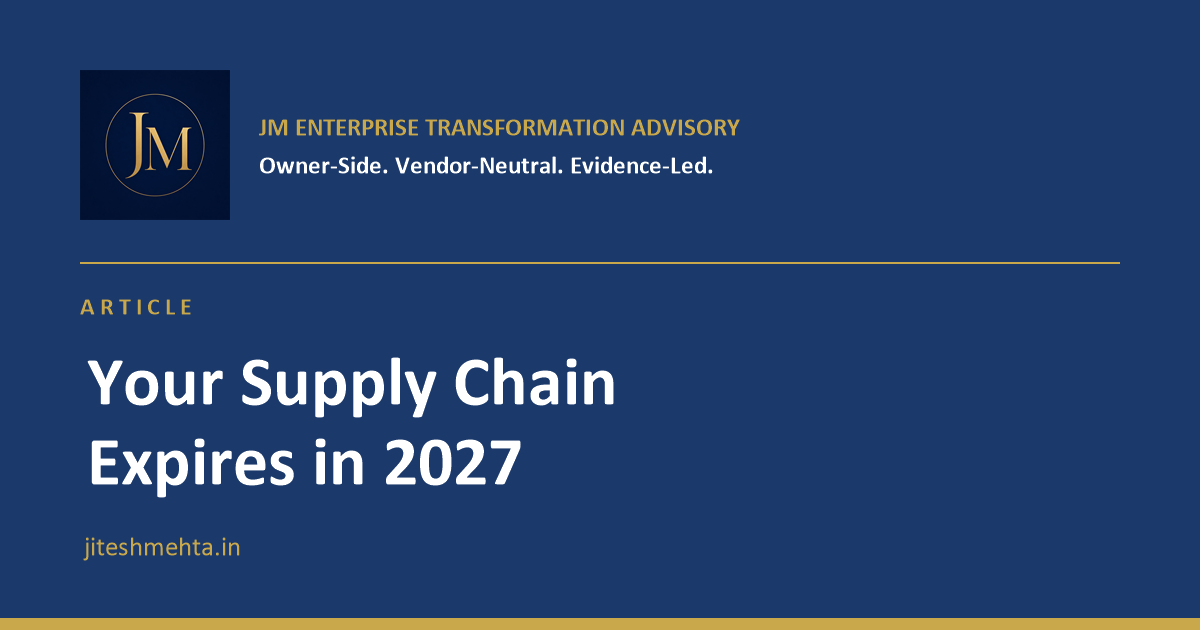
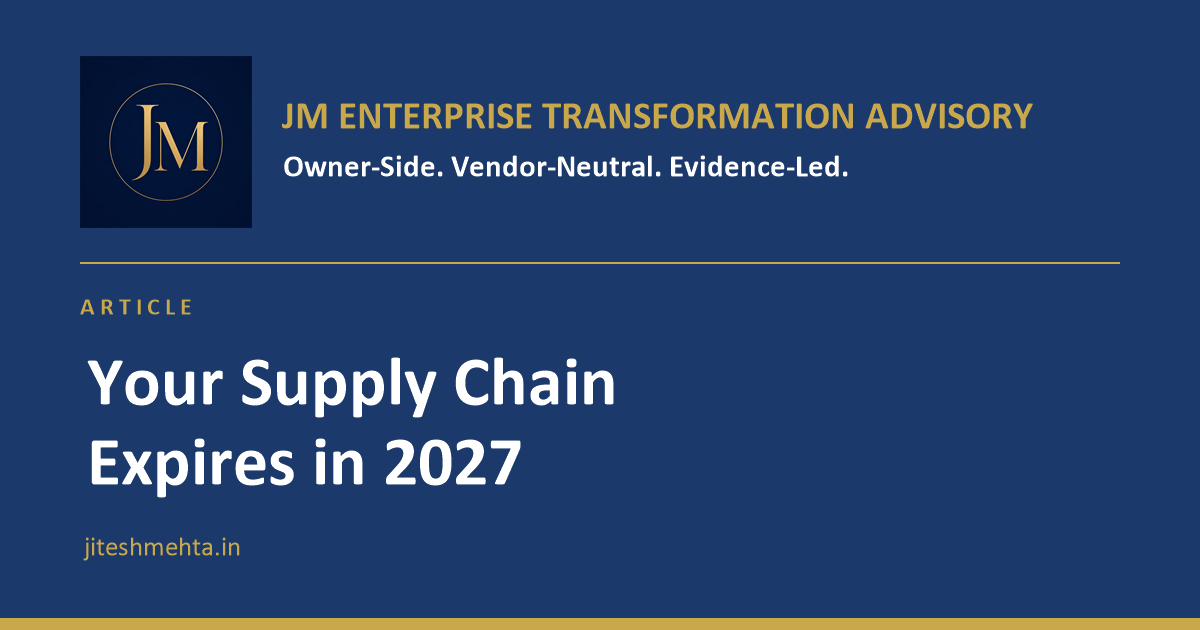
Add author and publish date metadata, enlarge the share image heading
Adds author, article:author and article:published_time (14 October
2026) to the article head. The two "8 October 2026" references are
NOAA's own publication date, cited in the body and the sources, so
they are left unchanged.

Enlarges the firm name and tagline on the share card from 25px to 39px
and 31px, so they stay legible when LinkedIn renders the card at feed
size. The title and the rest of the card are unchanged.

Changed region(s): [[0.0617, 0.0905, 0.8633, 0.3619]]

diff --git a/insights/supply-chain-expires-2027.html b/insights/supply-chain-expires-2027.html
@@ -5,6 +5,9 @@
 <meta property="og:title" content="Your Supply Chain Expires in 2027">
 <meta property="og:description" content="For CSCOs in capital intensive energy industries: why you must run a value chain, and the five controls to put in place before the year begins.">
 <meta property="og:type" content="article">
+<meta name="author" content="Jitesh Mehta">
+<meta property="article:author" content="Jitesh Mehta">
+<meta property="article:published_time" content="2026-10-14T09:00:00+05:30">
 <meta property="og:url" content="https://jiteshmehta.in/insights/supply-chain-expires-2027.html">
 <meta property="og:site_name" content="JM Enterprise Transformation Advisory">
 <meta property="og:image" content="https://jiteshmehta.in/insights/supply-chain-expires-2027.png">
